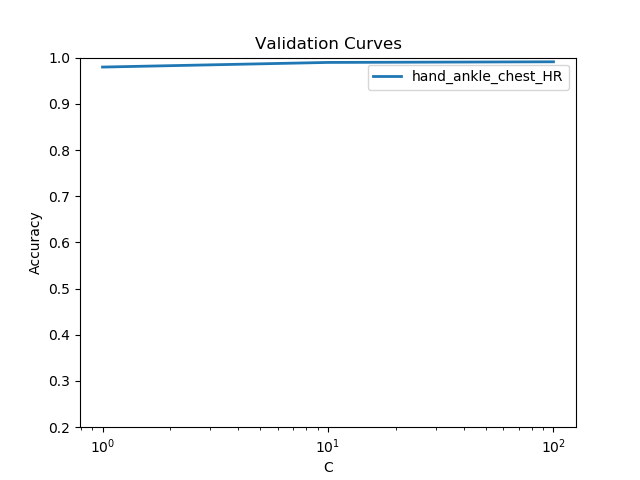
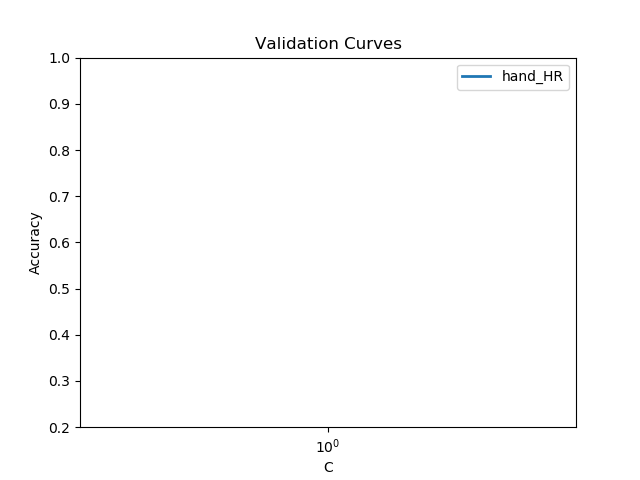
implemented pipe feature for preprocessing

diff --git a/src/logistic_regression.py b/src/logistic_regression.py
@@ -8,7 +8,9 @@ from parent_class import *
 from sklearn import linear_model
 from sklearn import svm
 from sklearn.preprocessing import StandardScaler
+from sklearn.preprocessing import binarize
 from sklearn.model_selection import validation_curve
+from sklearn.pipeline import Pipeline
 import matplotlib.pyplot as plt
 import os
 import time
@@ -31,38 +33,29 @@ class RegressionLearner(DataLoader):
         if not os.path.exists(self.model_folder):
             os.makedirs(self.model_folder)
 
-        # if self.use_lib and self.model == 'svm':
-        #     self.raw_data = self.raw_data[:175000, :]  # reduce data size for svm
-        #     self.labels = self.raw_data[:175000, :]
+        if self.use_lib and self.model == 'svm':
+            self.raw_data = self.raw_data[:17500, :]  # reduce data size for svm
+            self.labels = self.labels[:17500]
 
 
         # Scale all features to make iterative algorithm more robust
-        scaler = StandardScaler(copy=False)
-        if self.use_lib:
-            scaler.fit(self.train_data)
-            scaler.transform(self.train_data)
-            scaler.transform(self.test_data)
-        else:
-            scaler.transform(self.raw_data)
+        if not self.use_lib:
+            my_scaler = StandardScaler(copy=False)
+            my_scaler.fit(self.train_data)
+            my_scaler.transform(self.train_data)
+            my_scaler.transform(self.test_data)
 
         # Dict for selecting specific IMU's with heart rate sensor
-        self.feature_indices = {
-                            # 'hand': [0, 2, 3, 4, 5, 9, 10, 11, 12, 13, 14],
-                            # 'chest': [0, 19, 20, 21, 22, 26, 27, 28, 29, 30, 31],
-                            # 'ankle': [0, 36, 37, 38, 39, 43, 44, 45, 46, 47, 48],
-                            # 'hand_ankle': [0, 36, 37, 38, 39, 43, 44, 45, 46, 47, 48,
-                            #                2, 3, 4, 5, 9, 10, 11, 12, 13, 14],
-                            'hand_ankle_chest_HR': [0, 1, 36, 37, 38, 39, 43, 44, 45, 46, 47, 48,  # TODO: change back
-                                                 2, 3, 4, 5, 9, 10, 11, 12, 13, 14,
-                                                 19, 20, 21, 22, 26, 27, 28, 29, 30, 31]
-                            }
-        # self.feature_indices['hand_ankle'] = self.feature_indices['hand'] + self.feature_indices['ankle'][1:]
-        # self.feature_indices['hand_ankle_chest'] = self.feature_indices['hand_ankle'] + self.feature_indices['chest'][1:]
-        # self.feature_indices['hand_HR'] = self.feature_indices['hand'] + [1]
-        # self.feature_indices['chest_HR'] = self.feature_indices['chest'] + [1]
-        # self.feature_indices['ankle_HR'] = self.feature_indices['ankle'] + [1]
-        # self.feature_indices['hand_ankle_HR'] = self.feature_indices['hand_ankle'] + [1]
-        # self.feature_indices['hand_ankle_chest_HR'] = self.feature_indices['hand_ankle_chest'] + [1]
+        self.feature_indices = {'hand_HR': [0, 1, 2, 3, 4, 5, 9, 10, 11, 12, 13, 14]}
+
+        # ********FOR TESTING******************************************** # TODO: take out
+        # my_model = linear_model.LogisticRegression(solver='sag', multi_class='multinomial', max_iter=5000)
+        # my_train_data = self.train_data[:, self.feature_indices['hand_HR']]
+        # my_test_data = self.test_data[:, self.feature_indices['hand_HR']]
+        # my_model.fit(my_train_data, self.train_labels)
+        # print("Log reg score train: {}".format(my_model.score(my_train_data, self.train_labels)))
+        # print("Log reg score test: {}".format(my_model.score(my_test_data, self.test_labels)))
+        # **************************************************************
 
         # Add intercept term (add column of 1's to x matrix) if using custom log reg function
         # scilearn already has built-in functionality
@@ -71,73 +64,40 @@ class RegressionLearner(DataLoader):
             self.test_data = self.add_intercept(self.test_data)
 
         # self.select_activities()
-
-        self.log_train_data = self.train_data
-        self.log_train_labels = self.train_labels
-        self.log_test_data = self.test_data
-        self.log_test_labels = self.test_labels
-
         # self.change_labels()
+        self.m, self.n = np.shape(self.train_data)
 
-        self.m, self.n = np.shape(self.log_train_data)
         if self.use_lib:
             if self.model == 'svm':
-                self.scilearn_model = svm.SVC(kernel='rbf', gamma='auto', shrinking=True)
+                self.estimator = Pipeline([('scl', StandardScaler()),
+                                           (self.model, svm.SVC(kernel='rbf', gamma='auto', shrinking=True))])
             else:
-                self.scilearn_model = linear_model.LogisticRegression(solver='sag', multi_class='multinomial',
-                                                                      max_iter=5000)
+                self.estimator = Pipeline([('scl', StandardScaler()),
+                                           (self.model, linear_model.LogisticRegression(solver='sag', multi_class='multinomial',
+                                                                                        max_iter=5000))])
             self.theta = None
         else:
             self.theta = np.zeros(self.n)
-
-    def select_activities(self):
-        """
-        Which activities to select
-        """
-        bool_idxs = (self.train_labels == 1) | (self.train_labels == 2) | (self.train_labels == 3) | \
-                    (self.train_labels == 4) | (self.train_labels == 5) | (self.train_labels == 6) | \
-                    (self.train_labels == 7) | (self.train_labels == 24)
-        bool_idxs_test = (self.test_labels == 1) | (self.test_labels == 2) | (self.test_labels == 3) | \
-                         (self.test_labels == 4) | (self.test_labels == 5) | (self.test_labels == 6) | \
-                         (self.test_labels == 7) | (self.test_labels == 24)
-
-        self.log_train_data = self.train_data[bool_idxs]
-        self.log_train_labels = self.train_labels[bool_idxs]
-        self.log_test_data = self.test_data[bool_idxs_test]
-        self.log_test_labels = self.test_labels[bool_idxs_test]
-
-    def change_labels(self):
-        """
-        replace labels 1, 2, 3 with 0 and 4, 5, 6, 7, 24 with 1
-        """
-        nonactive_idxs = (self.log_train_labels == 1) | (self.log_train_labels == 2) | (self.log_train_labels == 3)
-        active_idxs = (self.log_train_labels == 4) | (self.log_train_labels == 5) | (self.log_train_labels == 6) | \
-                      (self.log_train_labels == 7) | (self.log_train_labels == 24)
-        nonactive_idxs_test = (self.log_test_labels == 1) | (self.log_test_labels == 2) | (self.log_test_labels == 3)
-        active_idxs_test = (self.log_test_labels == 4) | (self.log_test_labels == 5) | (self.log_test_labels == 6) | \
-                           (self.log_test_labels == 7) | (self.log_test_labels == 24)
-        self.log_train_labels[nonactive_idxs] = 0
-        self.log_test_labels[nonactive_idxs_test] = 0
-        self.log_train_labels[active_idxs] = 1
-        self.log_test_labels[active_idxs_test] = 1
 
     def train(self):
         '''
             Train RegressionLearner
         '''
         if self.use_lib:
-            print("Training model with scikitlearn {}...".format(self.scilearn_model.__class__.__name__))
+            print("Training model with scikitlearn {}...")  # .format(self.scilearn_model.__class__.__name__))
             # c_range = [0.00001, 0.0001, 0.001, 0.01, 0.1, 1.0, 10, 100, 1000, 10000]  # for log reg
             # c_range = [0.1, 1.0, 10.0, 100.0, 1000.0, 10000.0]  # for SVM
-            c_range = [0.1]
+            c_range = [1.0]
 
             print("Starting validation curve")
             print(time.time())
             for key in self.feature_indices.keys():
                 filtered_features = self.raw_data[:, self.feature_indices[key]]
-                train_scores, test_scores = validation_curve(self.scilearn_model, filtered_features,
-                                                             self.labels, param_name="C", param_range=c_range,
+
+                train_scores, test_scores = validation_curve(self.estimator, filtered_features,
+                                                             self.labels, param_name=self.model+"__C", param_range=c_range,
                                                              cv=3, scoring="accuracy", n_jobs=-1)
+                print("train_scores shape: {}".format(train_scores))
                 train_scores_mean = np.mean(train_scores, axis=1)
                 train_scores_std = np.std(train_scores, axis=1)
                 test_scores_mean = np.mean(test_scores, axis=1)
@@ -148,20 +108,20 @@ class RegressionLearner(DataLoader):
                 print("Train scores mean: {} with std: {}".format(train_scores_mean, train_scores_std))
                 print("Test scores mean: {} with std: {}".format(test_scores_mean, test_scores_std))
 
-                lw = 2
-                # plt.semilogx(c_range, train_scores_mean, label="Training", lw=lw)
-                # plt.fill_between(c_range, train_scores_mean - train_scores_std,
-                #                  train_scores_mean + train_scores_std, alpha=0.2, lw=lw)
-                plt.semilogx(c_range, test_scores_mean, label=key, lw=lw)
-                # plt.fill_between(c_range, test_scores_mean - test_scores_std,
-                #                  test_scores_mean + test_scores_std, alpha=0.2, lw=lw)
-
-            plt.title("Validation Curves")
-            plt.xlabel("C")
-            plt.ylabel("Accuracy")
-            plt.ylim(0.2, 1.0)
-            plt.legend(loc="best")
-            plt.savefig("./../output/mix_svm2.png")
+            #     lw = 2
+            #     # plt.semilogx(c_range, train_scores_mean, label="Training", lw=lw)
+            #     # plt.fill_between(c_range, train_scores_mean - train_scores_std,
+            #     #                  train_scores_mean + train_scores_std, alpha=0.2, lw=lw)
+            #     plt.semilogx(c_range, test_scores_mean, label=key, lw=lw)
+            #     # plt.fill_between(c_range, test_scores_mean - test_scores_std,
+            #     #                  test_scores_mean + test_scores_std, alpha=0.2, lw=lw)
+            #
+            # plt.title("Validation Curves")
+            # plt.xlabel("C")
+            # plt.ylabel("Accuracy")
+            # plt.ylim(0.2, 1.0)
+            # plt.legend(loc="best")
+            # plt.savefig("./../output/mix_svm2.png")
 
         else:
             self.stochastic_train()
@@ -188,6 +148,37 @@ class RegressionLearner(DataLoader):
         print("Model accuracy: {}".format(accur))
 
         return predictions
+
+    def select_activities(self):
+        """
+        Which activities to select
+        """
+        bool_idxs = (self.train_labels == 1) | (self.train_labels == 2) | (self.train_labels == 3) | \
+                    (self.train_labels == 4) | (self.train_labels == 5) | (self.train_labels == 6) | \
+                    (self.train_labels == 7) | (self.train_labels == 24)
+        bool_idxs_test = (self.test_labels == 1) | (self.test_labels == 2) | (self.test_labels == 3) | \
+                         (self.test_labels == 4) | (self.test_labels == 5) | (self.test_labels == 6) | \
+                         (self.test_labels == 7) | (self.test_labels == 24)
+
+        self.train_data = self.train_data[bool_idxs]
+        self.train_labels = self.train_labels[bool_idxs]
+        self.test_data = self.test_data[bool_idxs_test]
+        self.test_labels = self.test_labels[bool_idxs_test]
+
+    def change_labels(self):
+        """
+        replace labels 1, 2, 3 with 0 and 4, 5, 6, 7, 24 with 1
+        """
+        nonactive_idxs = (self.train_labels == 1) | (self.train_labels == 2) | (self.train_labels == 3)
+        active_idxs = (self.train_labels == 4) | (self.train_labels == 5) | (self.train_labels == 6) | \
+                      (self.train_labels == 7) | (self.train_labels == 24)
+        nonactive_idxs_test = (self.test_labels == 1) | (self.test_labels == 2) | (self.test_labels == 3)
+        active_idxs_test = (self.test_labels == 4) | (self.test_labels == 5) | (self.test_labels == 6) | \
+                           (self.test_labels == 7) | (self.test_labels == 24)
+        self.train_labels[nonactive_idxs] = 0
+        self.test_labels[nonactive_idxs_test] = 0
+        self.train_labels[active_idxs] = 1
+        self.test_labels[active_idxs_test] = 1
 
     def add_intercept(self, x):
         """Add intercept to matrix x.

diff --git a/src/parent_class.py b/src/parent_class.py
@@ -245,32 +245,49 @@ class DataLoader():
                 plot(hand_accel_data)
 
         '''
-        self.index = {}
+        # Dict for selecting specific IMU's with heart rate sensor
+        self.feature_indices = {
+            'hand': [0, 2, 3, 4, 5, 9, 10, 11, 12, 13, 14],
+            'chest': [0, 19, 20, 21, 22, 26, 27, 28, 29, 30, 31],
+            'ankle': [0, 36, 37, 38, 39, 43, 44, 45, 46, 47, 48],
+            'hand_ankle': [0, 36, 37, 38, 39, 43, 44, 45, 46, 47, 48,
+                           2, 3, 4, 5, 9, 10, 11, 12, 13, 14],
+            'hand_ankle_chest': [0, 36, 37, 38, 39, 43, 44, 45, 46, 47, 48,
+                                 2, 3, 4, 5, 9, 10, 11, 12, 13, 14,
+                                 19, 20, 21, 22, 26, 27, 28, 29, 30, 31]
+        }
+        self.feature_indices['hand_ankle'] = self.feature_indices['hand'] + self.feature_indices['ankle'][1:]
+        self.feature_indices['hand_ankle_chest'] = self.feature_indices['hand_ankle'] + self.feature_indices['chest'][1:]
+        self.feature_indices['hand_HR'] = self.feature_indices['hand'] + [1]
+        self.feature_indices['chest_HR'] = self.feature_indices['chest'] + [1]
+        self.feature_indices['ankle_HR'] = self.feature_indices['ankle'] + [1]
+        self.feature_indices['hand_ankle_HR'] = self.feature_indices['hand_ankle'] + [1]
+        self.feature_indices['hand_ankle_chest_HR'] = self.feature_indices['hand_ankle_chest'] + [1]
 
-        # These indices are relative to the raw_data matrix
-
-        self.index["heart_rate"] = slice(2 - a)
-        self.index[BodyPart.heart_rate] = slice(2 - a)
-
-        self.index["hand"] = slice(3 - a, 19 - a, 1)
-        self.index["chest"] = slice(20 - a, 36 - a, 1)
-        self.index["ankle"] = slice(37 - a, 53 - a, 1)
-
-        self.index[BodyPart.hand] = slice(3 - a, 19 - a, 1)
-        self.index[BodyPart.chest] = slice(20 - a, 36 - a, 1)
-        self.index[BodyPart.ankle] = slice(37 - a, 53 - a, 1)
-
-        # These indices are offset relative to the BodyPart indices
-
-        self.index["temp"] = slice(0)
-        self.index["accel"] = slice(1, 3, 1)
-        self.index["gyro"] = slice(7, 9, 1)
-        self.index["magnet"] = slice(10, 12, 1)
-
-        self.index[SensorType.temp] = slice(0)
-        self.index[SensorType.accel] = slice(1, 3, 1)
-        self.index[SensorType.gyro] = slice(7, 9, 1)
-        self.index[SensorType.magnet] = slice(10, 12, 1)
+        # # Indices for this dict are relative to the raw_data matrix
+        # self.index = {}
+        # self.index["heart_rate"] = slice(2 - a)
+        # self.index[BodyPart.heart_rate] = slice(2 - a)
+        #
+        # self.index["hand"] = slice(3 - a, 19 - a, 1)
+        # self.index["chest"] = slice(20 - a, 36 - a, 1)
+        # self.index["ankle"] = slice(37 - a, 53 - a, 1)
+        #
+        # self.index[BodyPart.hand] = slice(3 - a, 19 - a, 1)
+        # self.index[BodyPart.chest] = slice(20 - a, 36 - a, 1)
+        # self.index[BodyPart.ankle] = slice(37 - a, 53 - a, 1)
+        #
+        # # These indices are offset relative to the BodyPart indices
+        #
+        # self.index["temp"] = slice(0)
+        # self.index["accel"] = slice(1, 3, 1)
+        # self.index["gyro"] = slice(7, 9, 1)
+        # self.index["magnet"] = slice(10, 12, 1)
+        #
+        # self.index[SensorType.temp] = slice(0)
+        # self.index[SensorType.accel] = slice(1, 3, 1)
+        # self.index[SensorType.gyro] = slice(7, 9, 1)
+        # self.index[SensorType.magnet] = slice(10, 12, 1)
 
 
     # ------------------------------------- SubClass Methods ------------------------------------- #

diff --git a/src/main.py b/src/main.py
@@ -63,6 +63,8 @@ def main():
                                                     use_lib=True, model='svm')  # model can be 'log_reg' or 'svm'
     learner.train()
     # learner.predict()
+
+    # -----------------------------------------------------------------------------------
     # Use plot() from our util.py package
     # util.plot([learner.hand_accel], show=True, title="Hand Accel vs Time")
     # util.plot([learner.chest_accel, learner.chest_gyro], show=True, title="Chest Accel & Chest Gyro vs Time")
